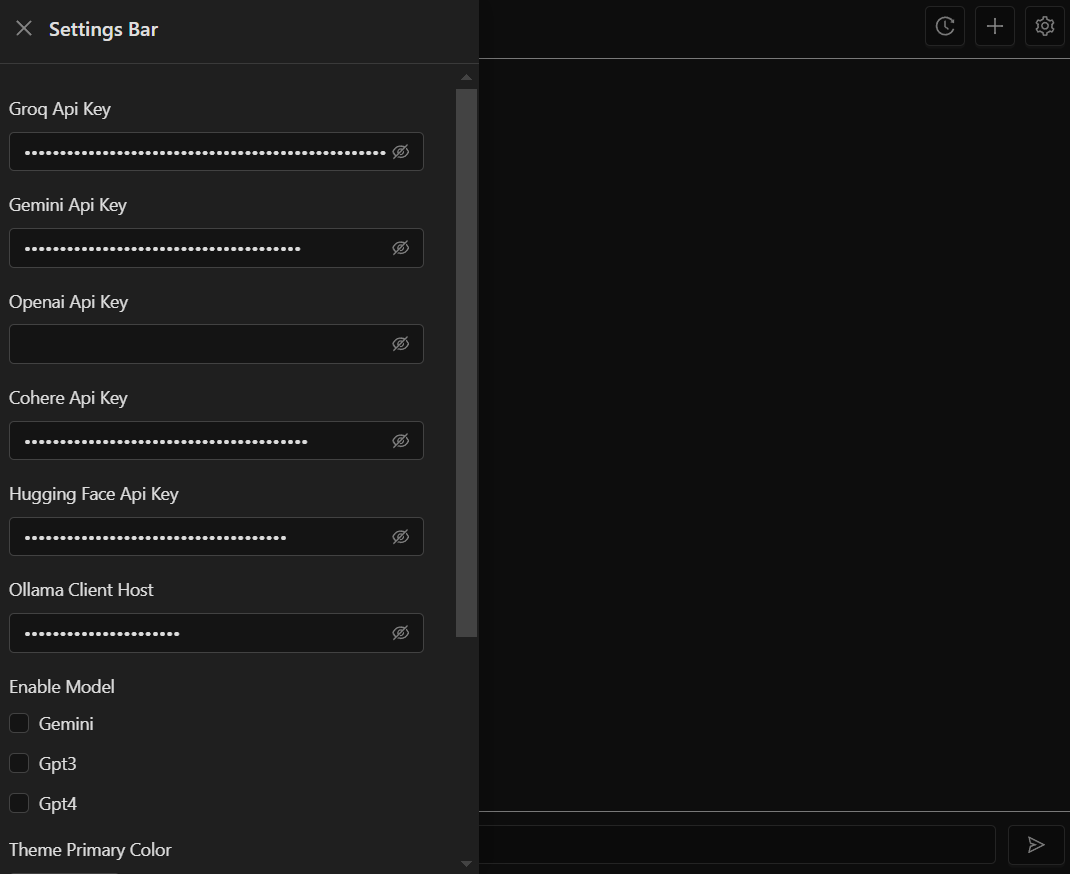
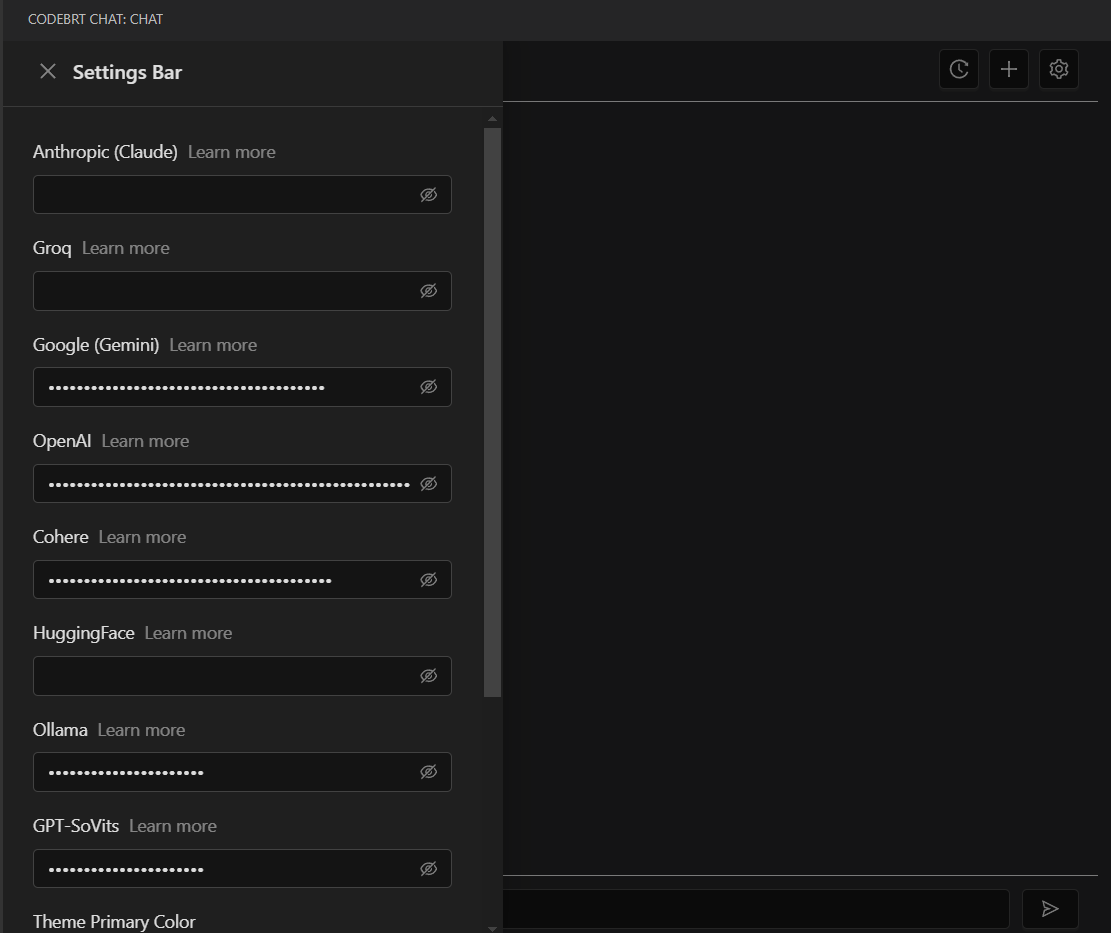
Add:  Add basic introduction and Quick start markdown file.
Part of function explanation and graph not done yet, update soon.

diff --git a/Documents/sidebars.ts b/Documents/sidebars.ts
@@ -11,6 +11,7 @@ const sidebars: SidebarsConfig = {
         "docs/getting-started/installation",
         "docs/getting-started/overview",
         "docs/getting-started/configuration",
+        "docs/getting-started/quickstart",
       ],
     },
     {

diff --git a/Documents/docs/docs/getting-started/quickstart.md b/Documents/docs/docs/getting-started/quickstart.md
@@ -1,0 +1,78 @@
+![](/img/webview.png)
+***    
+Before we start, check the all the installation and dependencies are well-done.
+
+To start the extension, click the extension button to open the extension dialog.   
+![](/img/extension-button.png)
+
+And you'll find General Setting in the setting button on the upper right corner.   
+![](/img/setting-button.png)
+
+## Basic Setting
+### General setting  
+In general setting, you need to set the api key to ensure that your model can be used.
+ 
+![](/img/apikey-setting.png) 
+ 
+And then, you can set the page style by the Theme Primary color, Theme Algorithm and Theme Border Radius below, too. 
+
+### Voice setting  
+In the voice settings, we will set the TTS and STT service methods. Moreover, the voice types listed allow you to choose. (An OpenAI API key is required to use OpenAI's options, if not, try the GPT-SoVits service.)
+
+## Started to Chat
+### Language Model Selection
+**Service Selection**    
+We provide many types of services for you to choose from, such as Gemini, OpenAI, Ollama...etc. You can view the list and click to change Services.
+
+**Model selection**    
+In every service, you can set the model as you want. For example, in Gemini service we can choose the default models or edit the model list and customize the model you want.
+
+### Input
+**Send Message**  
+You can use the input area below to enter a message. After confirming that the message is correct, click the input key on the right, or press the enter key on the keyboard twice to send the message.
+
+**Upload picture**    
+We offered the service for you to upload local picture files for language models to analyze.
+
+**Upload audio**
+We also offer a voice-to-text service where you can record their voice using the record button and the message will be displayed.
+
+### Chat History 
+You can add new individual chat pages, and check them in the chat history.
+If you don’t need any page in the chat history, you can remove it by a click.  
+***Chat history will only be saved when the workspace is open.***
+
+## ChatBox Function
+**Edit**  
+You can edit the chat box message through the edit button. After saving the changes, the model will regenerate the response, and the old message will be retained. You can switch to view at any time.
+
+**Voice service**   
+If desired, you can use the audio service by clicking the speaker button, which is translated through the language model.
+
+**Copy**  
+Also, messages can be copied by the copy button.
+
+**Regenerate**  
+If you click the regenerate button, the system will regenerate a suitable response to the question using the currently selected model.
+
+## Model Advanced Setting
+In the model advanced settings, you can set a system prompt to help your questions be answered in a more ideal way.
+
+### System Prompt  
+The default system prompt is 'You are a helpful assistant.'
+If you want to modify, just modify it directly in the modification area. If you close the Model Advanced Setting window, the prompt will be saved.
+
+
+Moreover, you can set the required prompt parameters. If it cannot be referenced, the system will send you a message and automatically ignore it.
+
+### Prompt List  
+You can use the Save button to save the prompt into the prompt list. By detail, you can set the prompt name, description and prompt content to increase the convenience of reuse.
+
+When you click the load button, you can see the past saved prompts and can modify or delete them at any time.
+
+In addition, the prompt filter can help you find the prompts you want to use faster, providing custom tags and used model tags for classification.
+## Web Search & URL fetcher 
+**Web Search**    
+web search information  
+**URL fetcher**    
+url fetcher information

diff --git a/Documents/docs/docs/introduction.md b/Documents/docs/docs/introduction.md
@@ -6,3 +6,17 @@ title: Introduction
 ## What is the CodeBRT?
 
 This section provides a simple overview of the project's goals, features, and the basic concept behind it.
+
+## Our Goal
+The focus of CodeBRT is to study natural language-oriented development (NLOD) systems. The goal is to establish a program development environment that integrates natural language processing technology and can provide project structure suggestions, automatic document construction, and automatic program code generation in the existing development environment. and instruction quality improvements, hoping to improve development efficiency, program code quality, and reduce the difficulty of program development.
+
+## Features
+- Code Conversation Chat: Interact with the AI to discuss and understand code.
+- Code Scheduling Tasks: Manage and automate coding tasks.
+- Code Completion: Get code suggestions and completions.
+- Code Analysis: Analyze code for improvements, errors, or optimizations.
+- Code Formatting: Automatically format code to adhere to best practices.
+- Voice Assistant: Hands-free interaction through voice commands and responses.
+- Image Analysis: Analyze and understand images for tasks related to code and more.
+
+The project utilizes the VSCode Extension API along with various Language Model APIs.
